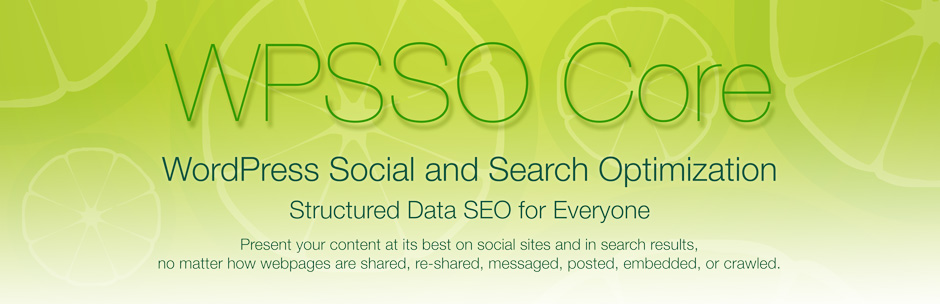
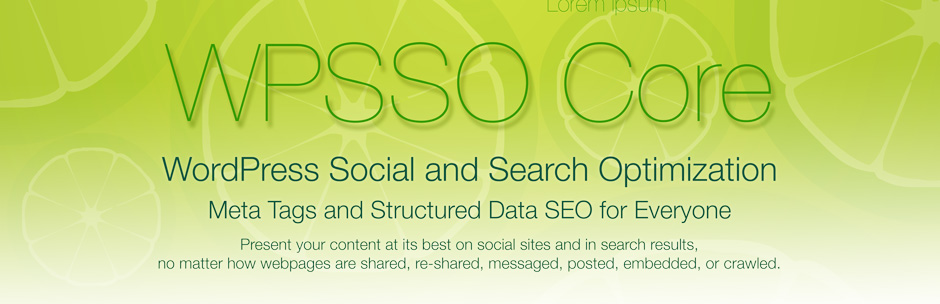
non-essential support files (documentation and assets)

Changed region(s): [[0.216, 0.6513, 0.8021, 0.7401], [0.5862, 0.0, 0.7096, 0.0592]]

diff --git a/index.html b/index.html
@@ -25,7 +25,7 @@
         </ul>
       </header>
       <section>
-<h1>WPSSO Core</h1><h3>Structured Data SEO for Everyone</h3>
+<h1>WPSSO Core</h1><h3>Meta Tags and Structured Data SEO for Everyone</h3>
 
 <table>
 <tr><th align="right" valign="top" nowrap>Plugin Name</th><td>WPSSO Core</td></tr>
